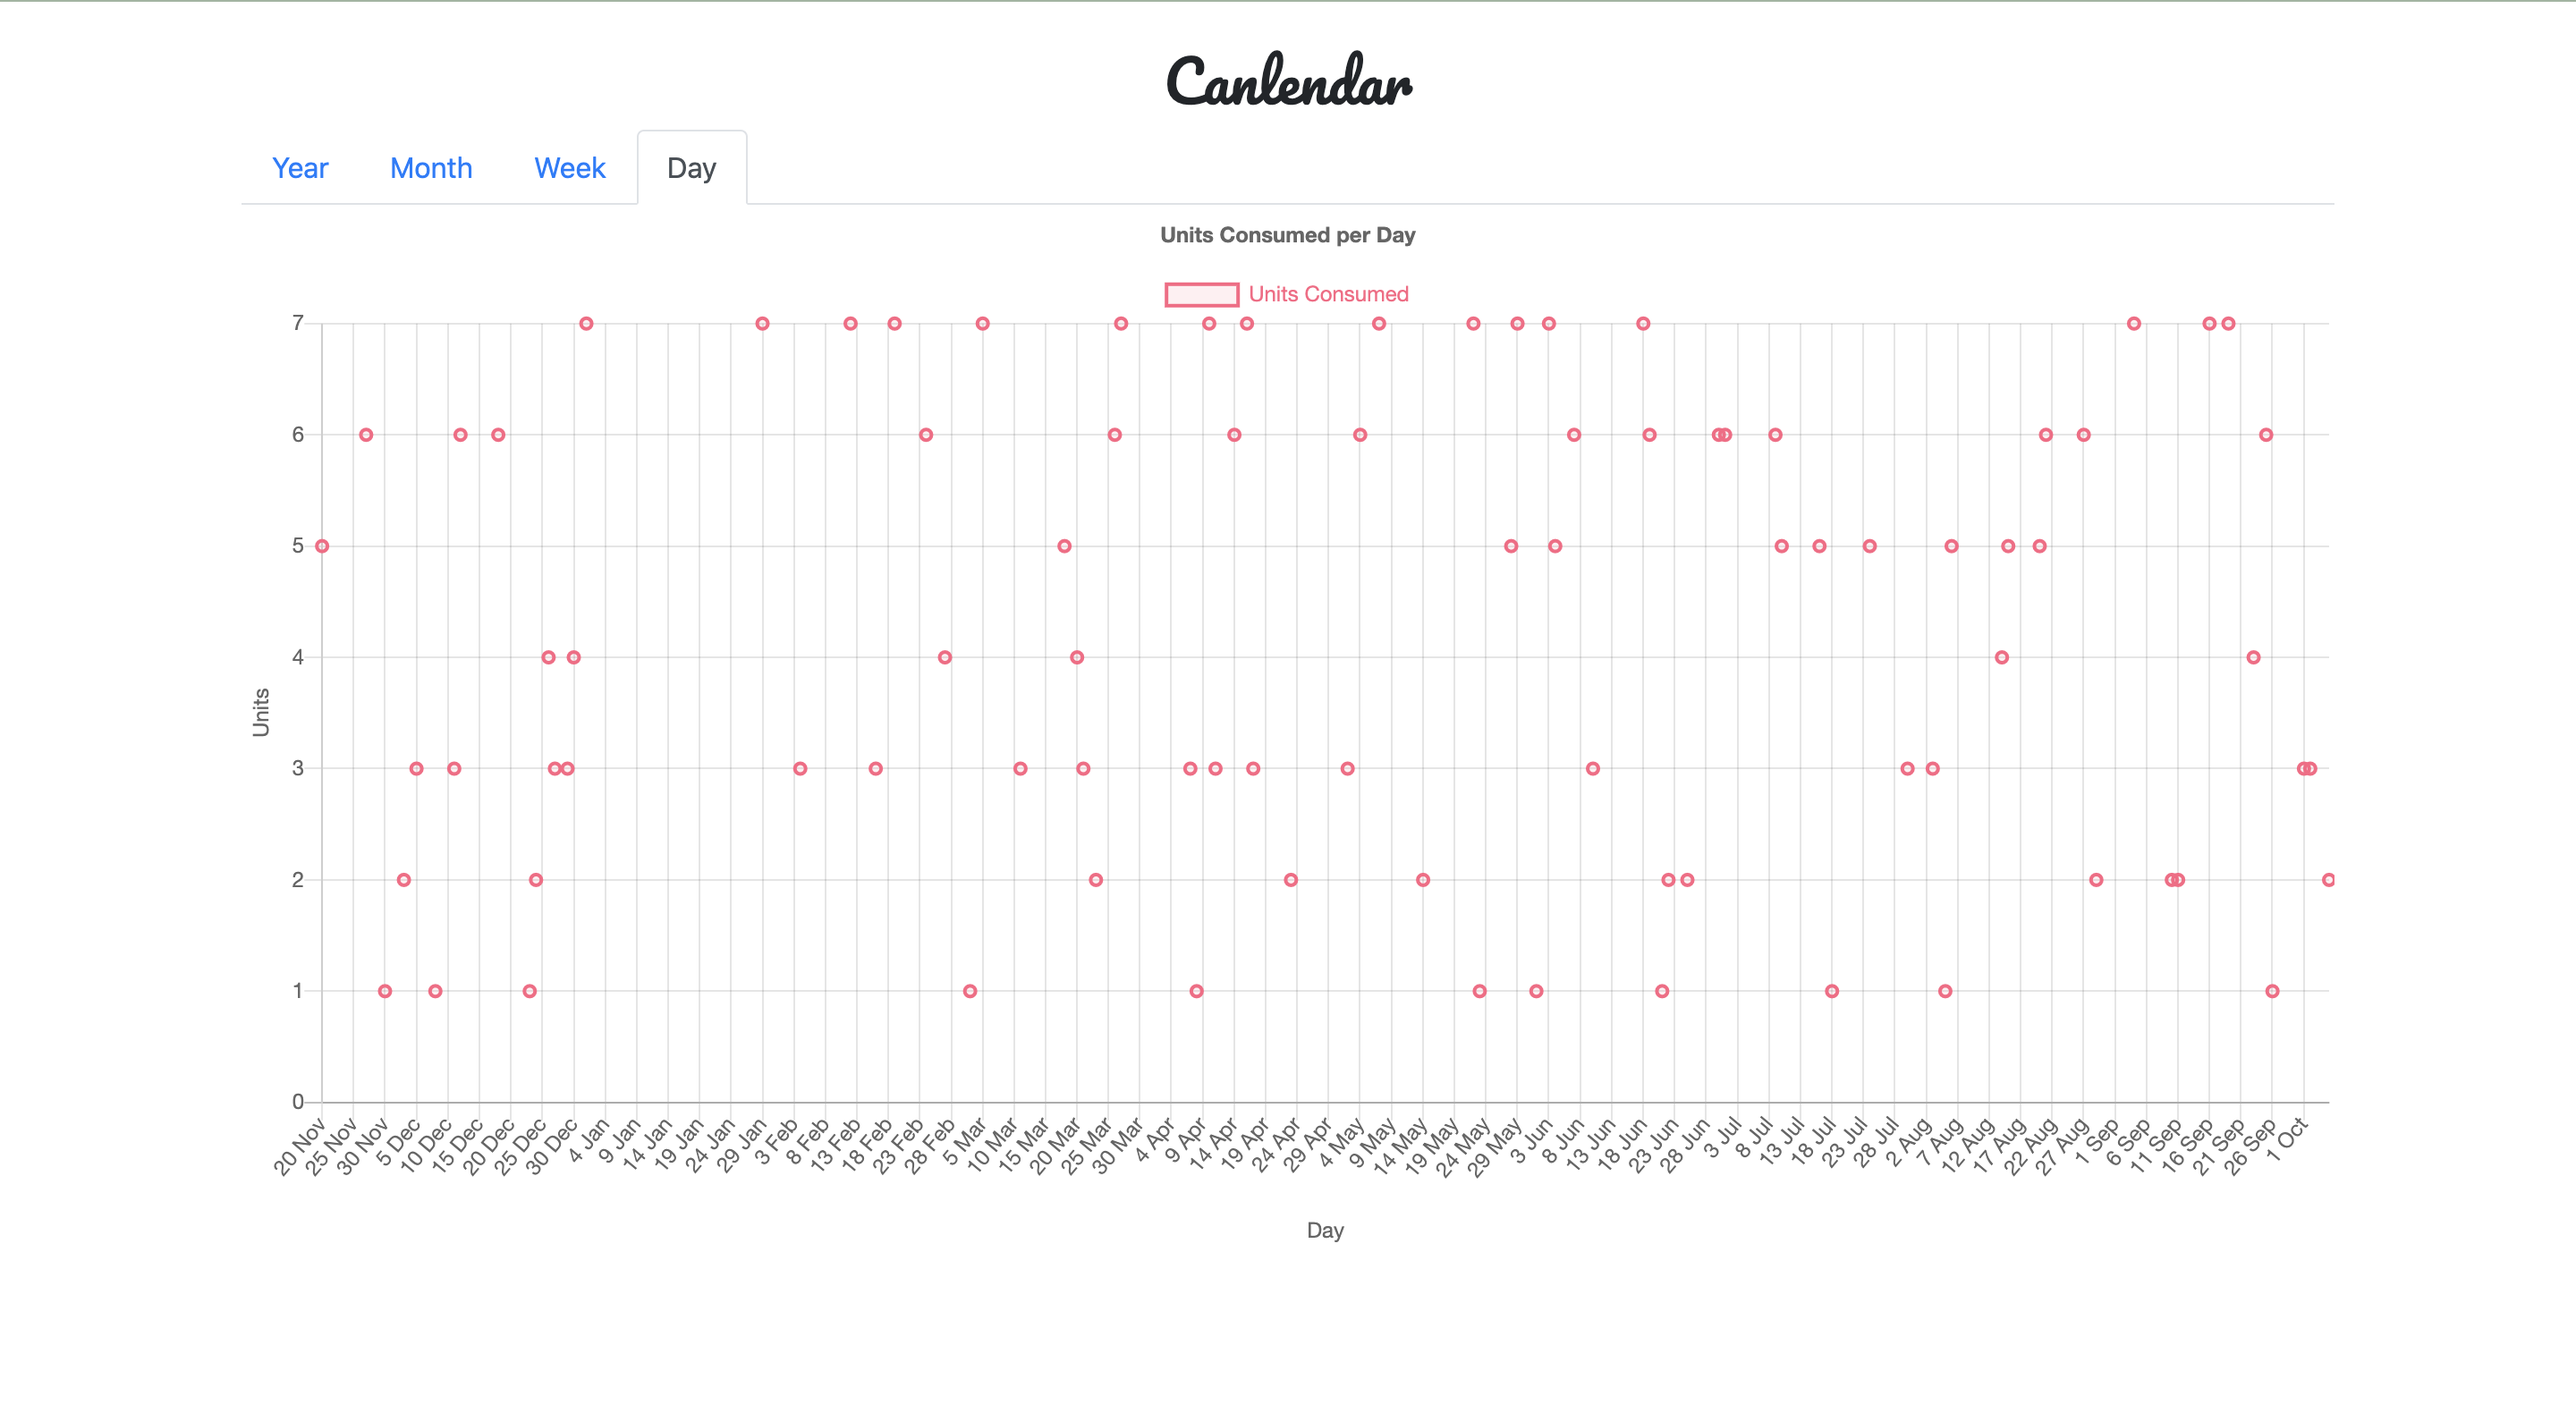
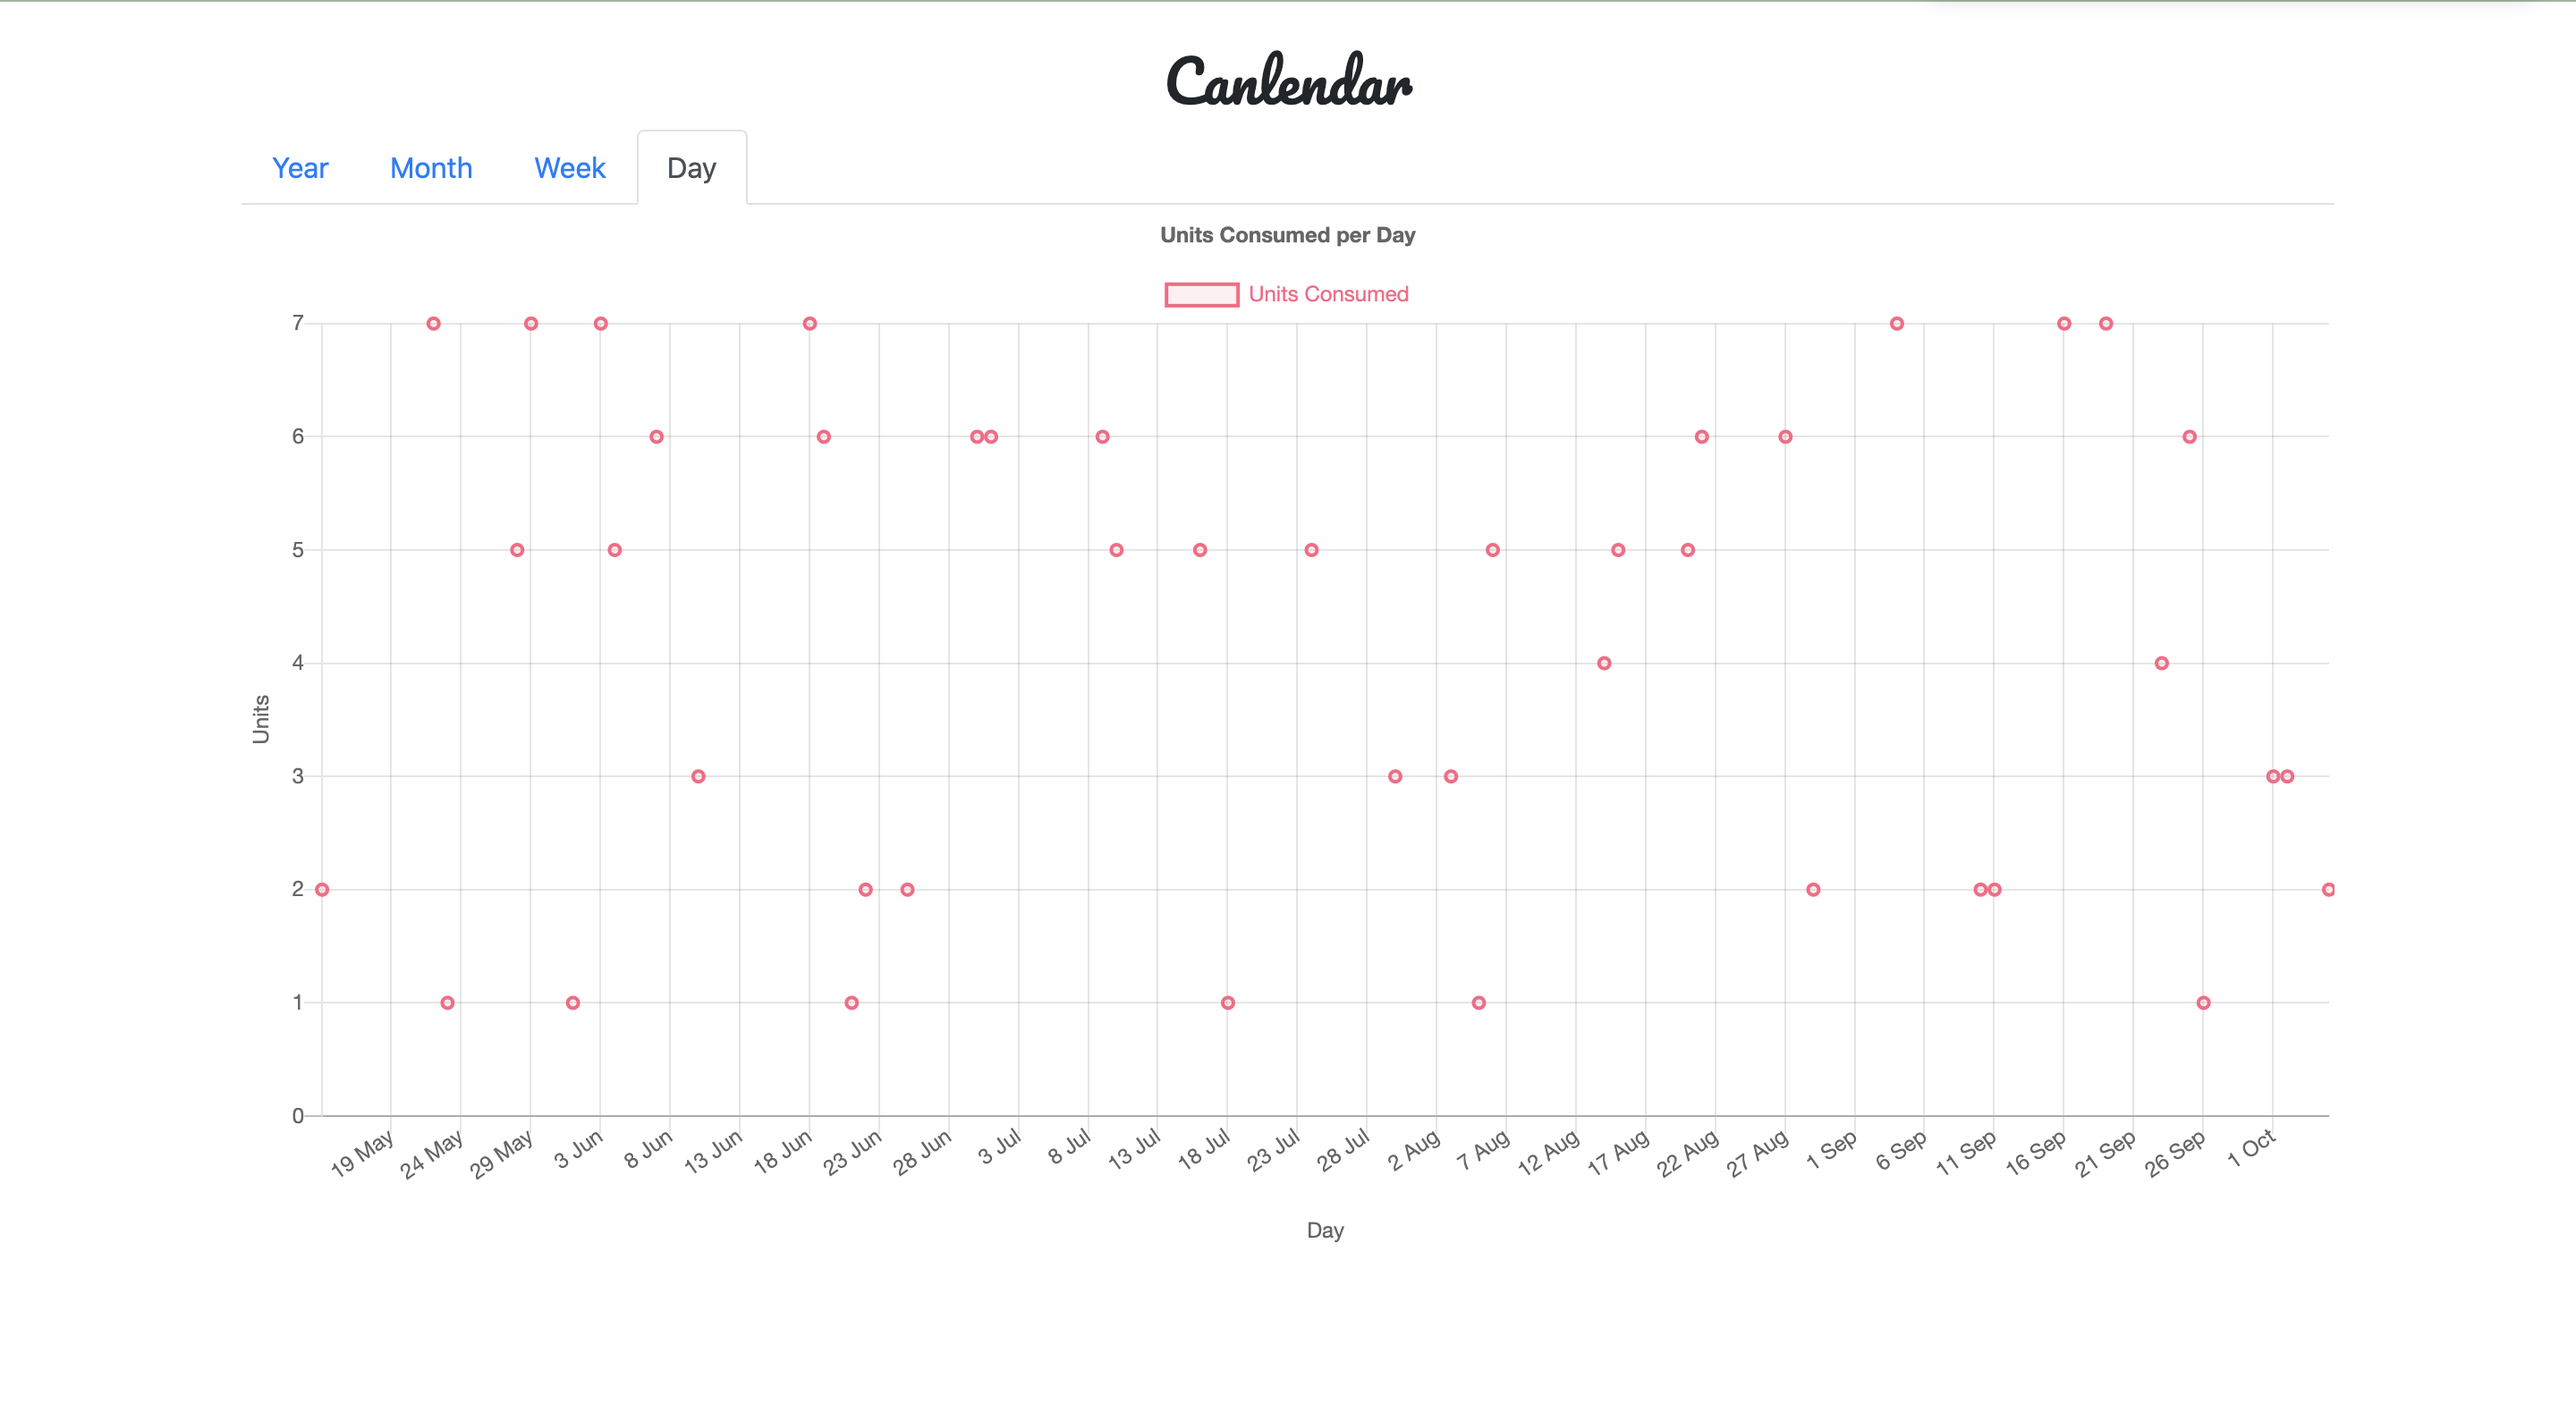
Prune demo day view data.

diff --git a/cmd/demo/main.go b/cmd/demo/main.go
@@ -73,7 +73,7 @@ func (d demoStore) Store(_ context.Context, _ ...storage.Record) error {
 }
 
 func dayPlotData() []storage.Plot {
-	return []storage.Plot{{X: 1637366400000, Y: 5}, {X: 1637452800000, Y: 0}, {X: 1637625600000, Y: 0}, {X: 1637712000000, Y: 0}, {X: 1637884800000, Y: 0}, {X: 1637971200000, Y: 6}, {X: 1638144000000, Y: 0}, {X: 1638230400000, Y: 1}, {X: 1638403200000, Y: 0}, {X: 1638489600000, Y: 2}, {X: 1638662400000, Y: 3}, {X: 1638748800000, Y: 0}, {X: 1638921600000, Y: 1}, {X: 1639008000000, Y: 0}, {X: 1639180800000, Y: 3}, {X: 1639267200000, Y: 6}, {X: 1639440000000, Y: 0}, {X: 1639526400000, Y: 0}, {X: 1639699200000, Y: 0}, {X: 1639785600000, Y: 6}, {X: 1639958400000, Y: 0}, {X: 1640044800000, Y: 0}, {X: 1640217600000, Y: 1}, {X: 1640304000000, Y: 2}, {X: 1640476800000, Y: 4}, {X: 1640563200000, Y: 3}, {X: 1640736000000, Y: 3}, {X: 1640822400000, Y: 4}, {X: 1640995200000, Y: 7}, {X: 1641081600000, Y: 0}, {X: 1641254400000, Y: 0}, {X: 1641340800000, Y: 0}, {X: 1641513600000, Y: 0}, {X: 1641600000000, Y: 0}, {X: 1641772800000, Y: 0}, {X: 1641859200000, Y: 0}, {X: 1642032000000, Y: 0}, {X: 1642118400000, Y: 0}, {X: 1642291200000, Y: 0}, {X: 1642377600000, Y: 0}, {X: 1642550400000, Y: 0}, {X: 1642636800000, Y: 0}, {X: 1642809600000, Y: 0}, {X: 1642896000000, Y: 0}, {X: 1643068800000, Y: 0}, {X: 1643155200000, Y: 0}, {X: 1643328000000, Y: 0}, {X: 1643414400000, Y: 7}, {X: 1643587200000, Y: 0}, {X: 1643673600000, Y: 0}, {X: 1643846400000, Y: 0}, {X: 1643932800000, Y: 3}, {X: 1644105600000, Y: 0}, {X: 1644192000000, Y: 0}, {X: 1644364800000, Y: 0}, {X: 1644451200000, Y: 0}, {X: 1644624000000, Y: 7}, {X: 1644710400000, Y: 0}, {X: 1644883200000, Y: 0}, {X: 1644969600000, Y: 3}, {X: 1645142400000, Y: 0}, {X: 1645228800000, Y: 7}, {X: 1645401600000, Y: 0}, {X: 1645488000000, Y: 0}, {X: 1645660800000, Y: 6}, {X: 1645747200000, Y: 0}, {X: 1645920000000, Y: 4}, {X: 1646006400000, Y: 0}, {X: 1646179200000, Y: 0}, {X: 1646265600000, Y: 1}, {X: 1646438400000, Y: 7}, {X: 1646524800000, Y: 0}, {X: 1646697600000, Y: 0}, {X: 1646784000000, Y: 0}, {X: 1646956800000, Y: 3}, {X: 1647043200000, Y: 0}, {X: 1647216000000, Y: 0}, {X: 1647302400000, Y: 0}, {X: 1647475200000, Y: 0}, {X: 1647561600000, Y: 5}, {X: 1647734400000, Y: 4}, {X: 1647820800000, Y: 3}, {X: 1647993600000, Y: 2}, {X: 1648080000000, Y: 0}, {X: 1648252800000, Y: 6}, {X: 1648339200000, Y: 7}, {X: 1648512000000, Y: 0}, {X: 1648598400000, Y: 0}, {X: 1648771200000, Y: 0}, {X: 1648857600000, Y: 0}, {X: 1649030400000, Y: 0}, {X: 1649116800000, Y: 0}, {X: 1649289600000, Y: 3}, {X: 1649376000000, Y: 1}, {X: 1649548800000, Y: 7}, {X: 1649635200000, Y: 3}, {X: 1649808000000, Y: 0}, {X: 1649894400000, Y: 6}, {X: 1650067200000, Y: 7}, {X: 1650153600000, Y: 3}, {X: 1650326400000, Y: 0}, {X: 1650412800000, Y: 0}, {X: 1650585600000, Y: 0}, {X: 1650672000000, Y: 2}, {X: 1650844800000, Y: 0}, {X: 1650931200000, Y: 0}, {X: 1651104000000, Y: 0}, {X: 1651190400000, Y: 0}, {X: 1651363200000, Y: 0}, {X: 1651449600000, Y: 3}, {X: 1651622400000, Y: 6}, {X: 1651708800000, Y: 0}, {X: 1651881600000, Y: 7}, {X: 1651968000000, Y: 0}, {X: 1652140800000, Y: 0}, {X: 1652227200000, Y: 0}, {X: 1652400000000, Y: 0}, {X: 1652486400000, Y: 2}, {X: 1652659200000, Y: 0}, {X: 1652745600000, Y: 0}, {X: 1652918400000, Y: 0}, {X: 1653004800000, Y: 0}, {X: 1653177600000, Y: 7}, {X: 1653264000000, Y: 1}, {X: 1653436800000, Y: 0}, {X: 1653523200000, Y: 0}, {X: 1653696000000, Y: 5}, {X: 1653782400000, Y: 7}, {X: 1653955200000, Y: 0}, {X: 1654041600000, Y: 1}, {X: 1654214400000, Y: 7}, {X: 1654300800000, Y: 5}, {X: 1654473600000, Y: 0}, {X: 1654560000000, Y: 6}, {X: 1654732800000, Y: 0}, {X: 1654819200000, Y: 3}, {X: 1654992000000, Y: 0}, {X: 1655078400000, Y: 0}, {X: 1655251200000, Y: 0}, {X: 1655337600000, Y: 0}, {X: 1655510400000, Y: 7}, {X: 1655596800000, Y: 6}, {X: 1655769600000, Y: 1}, {X: 1655856000000, Y: 2}, {X: 1656028800000, Y: 0}, {X: 1656115200000, Y: 2}, {X: 1656288000000, Y: 0}, {X: 1656374400000, Y: 0}, {X: 1656547200000, Y: 6}, {X: 1656633600000, Y: 6}, {X: 1656806400000, Y: 0}, {X: 1656892800000, Y: 0}, {X: 1657065600000, Y: 0}, {X: 1657152000000, Y: 0}, {X: 1657324800000, Y: 6}, {X: 1657411200000, Y: 5}, {X: 1657584000000, Y: 0}, {X: 1657670400000, Y: 0}, {X: 1657843200000, Y: 0}, {X: 1657929600000, Y: 5}, {X: 1658102400000, Y: 1}, {X: 1658188800000, Y: 0}, {X: 1658361600000, Y: 0}, {X: 1658448000000, Y: 0}, {X: 1658620800000, Y: 5}, {X: 1658707200000, Y: 0}, {X: 1658880000000, Y: 0}, {X: 1658966400000, Y: 0}, {X: 1659139200000, Y: 3}, {X: 1659225600000, Y: 0}, {X: 1659398400000, Y: 0}, {X: 1659484800000, Y: 3}, {X: 1659657600000, Y: 1}, {X: 1659744000000, Y: 5}, {X: 1659916800000, Y: 0}, {X: 1660003200000, Y: 0}, {X: 1660176000000, Y: 0}, {X: 1660262400000, Y: 0}, {X: 1660435200000, Y: 4}, {X: 1660521600000, Y: 5}, {X: 1660694400000, Y: 0}, {X: 1660780800000, Y: 0}, {X: 1660953600000, Y: 5}, {X: 1661040000000, Y: 6}, {X: 1661212800000, Y: 0}, {X: 1661299200000, Y: 0}, {X: 1661472000000, Y: 0}, {X: 1661558400000, Y: 6}, {X: 1661731200000, Y: 2}, {X: 1661817600000, Y: 0}, {X: 1661990400000, Y: 0}, {X: 1662076800000, Y: 0}, {X: 1662249600000, Y: 7}, {X: 1662336000000, Y: 0}, {X: 1662508800000, Y: 0}, {X: 1662595200000, Y: 0}, {X: 1662768000000, Y: 2}, {X: 1662854400000, Y: 2}, {X: 1663027200000, Y: 0}, {X: 1663113600000, Y: 0}, {X: 1663286400000, Y: 7}, {X: 1663372800000, Y: 0}, {X: 1663545600000, Y: 7}, {X: 1663632000000, Y: 0}, {X: 1663804800000, Y: 0}, {X: 1663891200000, Y: 4}, {X: 1664064000000, Y: 6}, {X: 1664150400000, Y: 1}, {X: 1664323200000, Y: 0}, {X: 1664409600000, Y: 0}, {X: 1664582400000, Y: 3}, {X: 1664668800000, Y: 3}, {X: 1664841600000, Y: 0}, {X: 1664928000000, Y: 2}, {X: 1665093322000, Y: 0}}
+	return []storage.Plot{{X: 1652140800000, Y: 0}, {X: 1652227200000, Y: 0}, {X: 1652400000000, Y: 0}, {X: 1652486400000, Y: 2}, {X: 1652659200000, Y: 0}, {X: 1652745600000, Y: 0}, {X: 1652918400000, Y: 0}, {X: 1653004800000, Y: 0}, {X: 1653177600000, Y: 7}, {X: 1653264000000, Y: 1}, {X: 1653436800000, Y: 0}, {X: 1653523200000, Y: 0}, {X: 1653696000000, Y: 5}, {X: 1653782400000, Y: 7}, {X: 1653955200000, Y: 0}, {X: 1654041600000, Y: 1}, {X: 1654214400000, Y: 7}, {X: 1654300800000, Y: 5}, {X: 1654473600000, Y: 0}, {X: 1654560000000, Y: 6}, {X: 1654732800000, Y: 0}, {X: 1654819200000, Y: 3}, {X: 1654992000000, Y: 0}, {X: 1655078400000, Y: 0}, {X: 1655251200000, Y: 0}, {X: 1655337600000, Y: 0}, {X: 1655510400000, Y: 7}, {X: 1655596800000, Y: 6}, {X: 1655769600000, Y: 1}, {X: 1655856000000, Y: 2}, {X: 1656028800000, Y: 0}, {X: 1656115200000, Y: 2}, {X: 1656288000000, Y: 0}, {X: 1656374400000, Y: 0}, {X: 1656547200000, Y: 6}, {X: 1656633600000, Y: 6}, {X: 1656806400000, Y: 0}, {X: 1656892800000, Y: 0}, {X: 1657065600000, Y: 0}, {X: 1657152000000, Y: 0}, {X: 1657324800000, Y: 6}, {X: 1657411200000, Y: 5}, {X: 1657584000000, Y: 0}, {X: 1657670400000, Y: 0}, {X: 1657843200000, Y: 0}, {X: 1657929600000, Y: 5}, {X: 1658102400000, Y: 1}, {X: 1658188800000, Y: 0}, {X: 1658361600000, Y: 0}, {X: 1658448000000, Y: 0}, {X: 1658620800000, Y: 5}, {X: 1658707200000, Y: 0}, {X: 1658880000000, Y: 0}, {X: 1658966400000, Y: 0}, {X: 1659139200000, Y: 3}, {X: 1659225600000, Y: 0}, {X: 1659398400000, Y: 0}, {X: 1659484800000, Y: 3}, {X: 1659657600000, Y: 1}, {X: 1659744000000, Y: 5}, {X: 1659916800000, Y: 0}, {X: 1660003200000, Y: 0}, {X: 1660176000000, Y: 0}, {X: 1660262400000, Y: 0}, {X: 1660435200000, Y: 4}, {X: 1660521600000, Y: 5}, {X: 1660694400000, Y: 0}, {X: 1660780800000, Y: 0}, {X: 1660953600000, Y: 5}, {X: 1661040000000, Y: 6}, {X: 1661212800000, Y: 0}, {X: 1661299200000, Y: 0}, {X: 1661472000000, Y: 0}, {X: 1661558400000, Y: 6}, {X: 1661731200000, Y: 2}, {X: 1661817600000, Y: 0}, {X: 1661990400000, Y: 0}, {X: 1662076800000, Y: 0}, {X: 1662249600000, Y: 7}, {X: 1662336000000, Y: 0}, {X: 1662508800000, Y: 0}, {X: 1662595200000, Y: 0}, {X: 1662768000000, Y: 2}, {X: 1662854400000, Y: 2}, {X: 1663027200000, Y: 0}, {X: 1663113600000, Y: 0}, {X: 1663286400000, Y: 7}, {X: 1663372800000, Y: 0}, {X: 1663545600000, Y: 7}, {X: 1663632000000, Y: 0}, {X: 1663804800000, Y: 0}, {X: 1663891200000, Y: 4}, {X: 1664064000000, Y: 6}, {X: 1664150400000, Y: 1}, {X: 1664323200000, Y: 0}, {X: 1664409600000, Y: 0}, {X: 1664582400000, Y: 3}, {X: 1664668800000, Y: 3}, {X: 1664841600000, Y: 0}, {X: 1664928000000, Y: 2}, {X: 1665093322000, Y: 0}}
 }
 
 func weekPlotData() []storage.Plot {

diff --git a/README.md b/README.md
@@ -27,8 +27,7 @@ curl -i -XPOST "localhost:8080/api/v1/collect" -d '{}'
 curl -i -XPOST "localhost:8080/api/v1/collect" -d '{"start_time_override": "2009-11-10T23:00:00Z"}'
 ```
 
-* Endpoint for querying alcohol unit consumption data stored in InfluxDB. Supported aggregations are `year`, `month`
-  , `week` and `day`.
+* Endpoint for querying alcohol unit consumption data stored in InfluxDB. Supported aggregations are `year`, `month`, `week` and `day`.
 
 ```bash
 curl -i -XGET "localhost:8080/api/v1/query?aggregation=week&end_time=2022-08-25T21:42:09Z"
